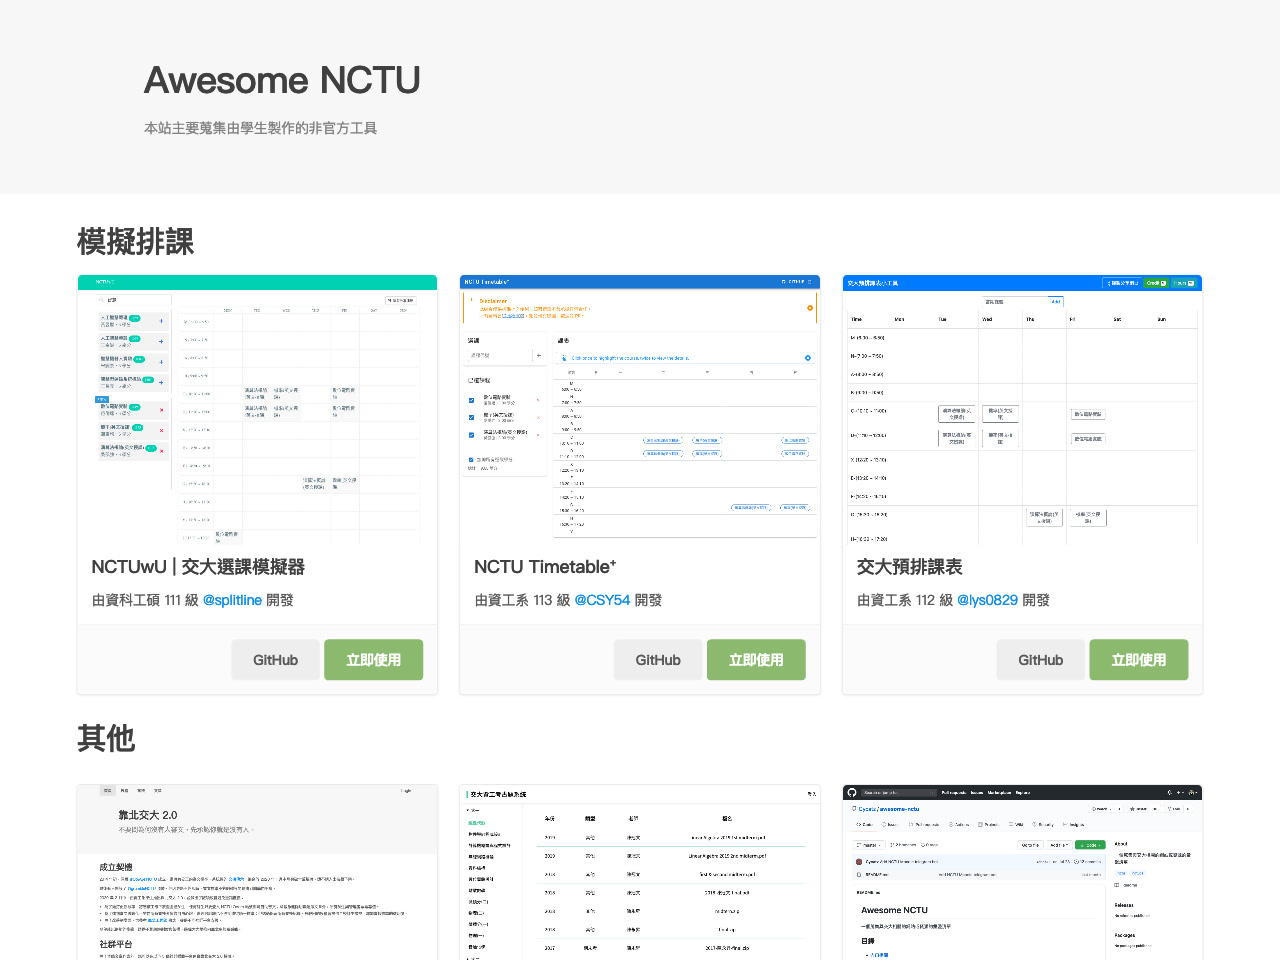
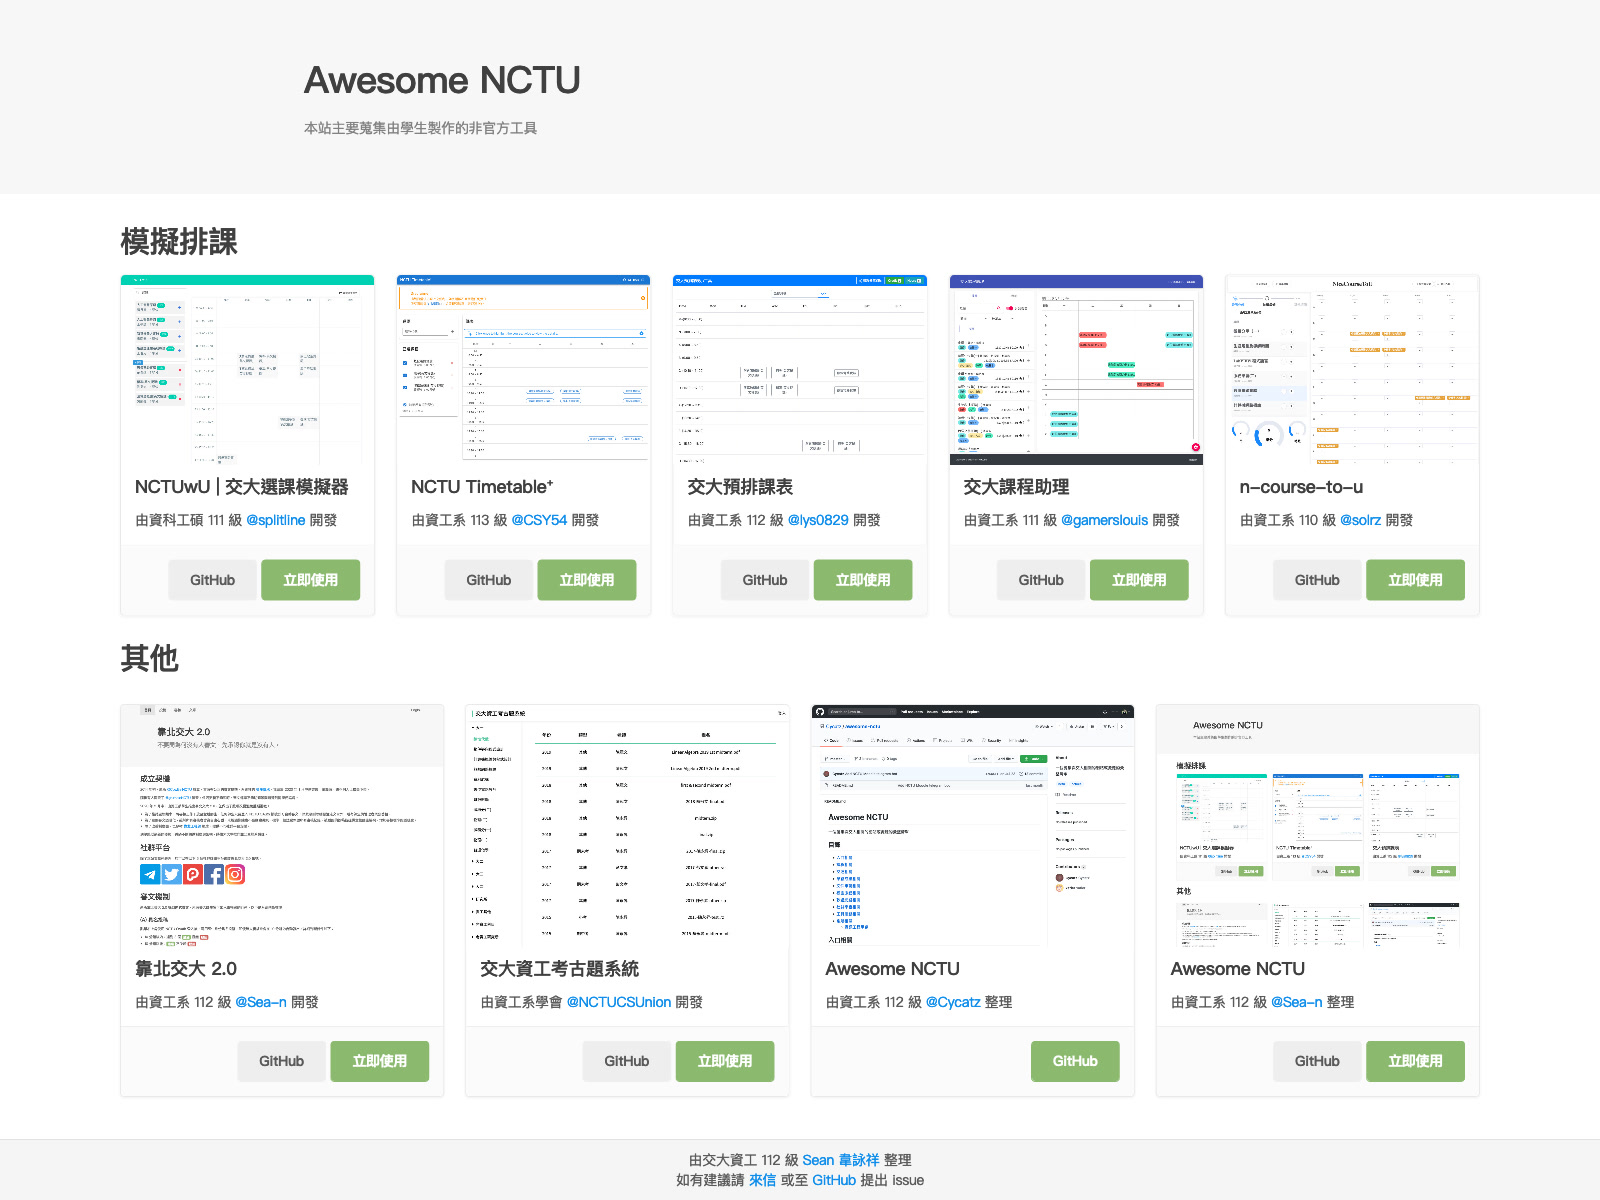
Add n-course-to-u

diff --git a/index.html b/index.html
@@ -7,10 +7,10 @@
     <meta name="viewport" content="width=device-width, initial-scale=1, maximum-scale=1, user-scalable=no">
     <meta name="keywords" content="NCTU, 國立交通大學">
     <meta name="description" content="一個彙整交大相關資源的網站">
-    <link rel="canonical" href="https://nctu.app/">
+    <link rel="canonical" href="https://awesome.nctu.app/">
     <meta property="og:title" content="Awesome NCTU">
-    <meta property="og:url" content="https://nctu.app/">
-    <meta property="og:image" content="/assets/img/og.jpg">
+    <meta property="og:url" content="https://awesome.nctu.app/">
+    <meta property="og:image" content="/assets/img/other-awesome.jpg">
     <meta property="og:type" content="website">
     <meta property="og:description" content="一個彙整交大相關資源的網站">
     <meta property="og:site_name" content="Awesome NCTU">
@@ -72,6 +72,16 @@
           </div>
           <div class="right aligned secondary extra content"><a target="_blank" href="https://github.com/gamerslouis/nctucourse">
               <button class="ts button">GitHub</button></a> <a target="_blank" href="https://course.nctu.xyz/">
+              <button class="ts positive button">立即使用</button></a></div>
+        </div>
+        <div class="ts card" id="timetable-solrz">
+          <div class="image"><img class="cover" src="/assets/img/timetable-solrz.jpg" onclick="showImg(this)" style="cursor: zoom-in;"/></div>
+          <div class="content">
+            <div class="header">n-course-to-u</div>
+            <div class="description">由資工系 110 級 <a target="_blank" href="https://github.com/solrz">@solrz</a> 開發</div>
+          </div>
+          <div class="right aligned secondary extra content"><a target="_blank" href="https://github.com/solrz/nice-course-to-u">
+              <button class="ts button">GitHub</button></a> <a target="_blank" href="https://solrz.github.io/nice-course-to-u/">
               <button class="ts positive button">立即使用</button></a></div>
         </div>
       </div>

diff --git a/README.md b/README.md
@@ -1,4 +1,4 @@
 # Awesome NCTU
 一個彙整交大相關資源的網站
 
-[![](./assets/img/og.jpg)](https://awesome.nctu.app/)
+[![](./assets/img/other-awesome.jpg)](https://awesome.nctu.app/)
